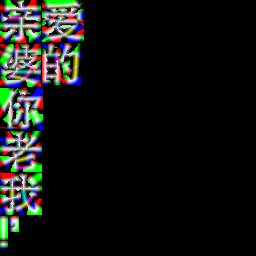
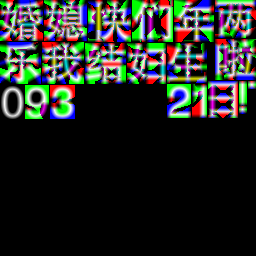
te

diff --git a/index.html b/index.html
@@ -9,8 +9,14 @@
     <a-marker preset="hiro">
       <!-- <a-box position='0 0.5 0' material='color: yellow;'></a-box> -->
       <!-- <a-entity position='3 3 0' text="width: 10; value:Happy birthday, dear! I love ♥ you!"></a-entity> -->
-      <a-text value="亲爱的老婆，我爱你！" font="res/heitiTTF-msdf.json" negate="false"
-        scale="2 2 2" color="#E71B64" position="-2 3 0"></a-text>
+
+
+      <a-text value="媳妇生日快乐！我们结婚两年啦！" font="res/heitiTTF-msdf.json" negate="false"
+        scale="2 2 2" color="#E71B64" position="-1.5 4 0"></a-text>
+
+      <a-text value="2019.12.13" font="res/heitiTTF-msdf.json" negate="false"
+        scale="1.5 1.5 1.5" color="#E71B64" position="-1.5 3 0"></a-text>
+
 
       <a-entity scale='0.5 0.5 0.5' position='0 0 0' gltf-model="url(res/scene.gltf)"></a-entity>
     </a-marker>
